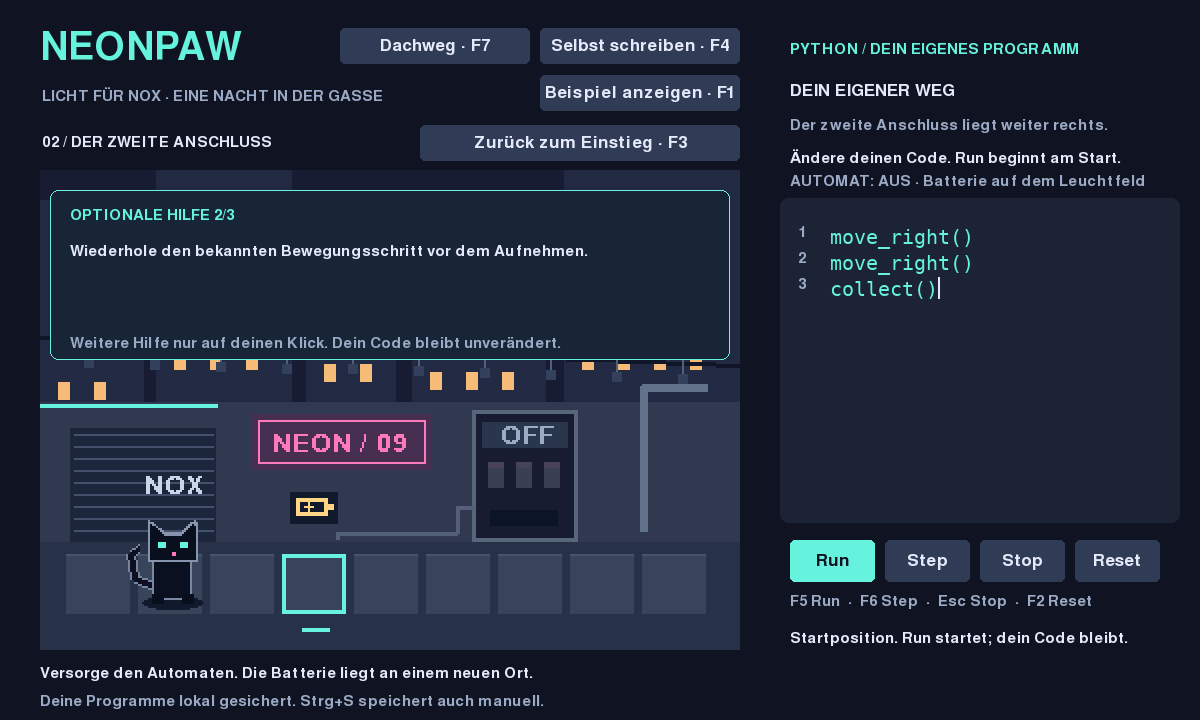
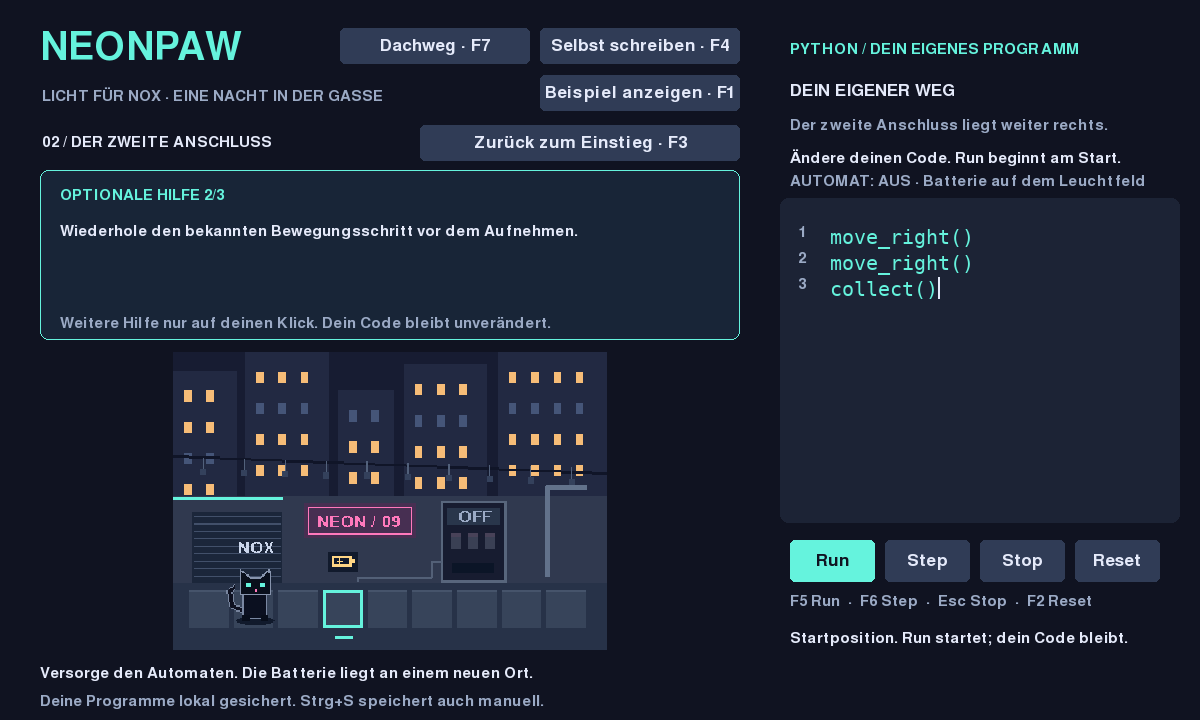
fix: keep the whole world visible beside optional guidance

Changed region(s): [[0.0308, 0.4278, 0.6167, 0.9167], [0.0308, 0.2444, 0.4933, 0.3667]]

diff --git a/neonpaw/ui/app.py b/neonpaw/ui/app.py
@@ -568,29 +568,46 @@ class App:
             scene.blit(self.sign_font.render('mrr', False, '#ffcf8a'), (cx - 11, 155))
         if not self.runner.world.moves:
             scene.blit(self.sign_font.render('NOX', False, '#cad5ea'), (cx - 13, 151))
-        self.canvas.blit(pygame.transform.scale(scene, (700, 480)), (40, 170))
+        viewport = self.world_display_rect()
+        self.canvas.blit(pygame.transform.scale(scene, viewport.size), viewport.topleft)
+
+    def hint_lines(self):
+        if not self.hint_level:
+            return ()
+        hints = (ROOF_LOOP_HINTS if self.roof_repetition_seen else ROOF_WALK_HINTS) if self.roof_active else HINTS[self.scenario]
+        if self.roof_active and self.roof_transfer_active:
+            hints = ROOF_TRANSFER_HINTS
+        if self.pair_active:
+            hints = PAIR_HINTS
+        return hints[self.hint_level - 1]
+
+    def hint_panel_rect(self):
+        return pygame.Rect(40, 170, 700, max(170, 70 + len(self.hint_lines()) * 28))
+
+    def world_display_rect(self):
+        if not self.hint_level:
+            return pygame.Rect(40, 170, 700, 480)
+        top = self.hint_panel_rect().bottom + 12
+        height = 650 - top
+        width = int(height * 350 / 240)
+        return pygame.Rect(40 + (700 - width) // 2, top, width, height)
 
     def draw_hint(self):
         if self.hint_level:
-            hints = (ROOF_LOOP_HINTS if self.roof_repetition_seen else ROOF_WALK_HINTS) if self.roof_active else HINTS[self.scenario]
-            if self.roof_active and self.roof_transfer_active:
-                hints = ROOF_TRANSFER_HINTS
-            if self.pair_active:
-                hints = PAIR_HINTS
-            lines = hints[self.hint_level - 1]
-            panel_height = max(170, 70 + len(lines) * 28)
-            pygame.draw.rect(self.canvas, '#182537', (50, 190, 680, panel_height), border_radius=8)
-            pygame.draw.rect(self.canvas, CYAN, (50, 190, 680, panel_height), 1, border_radius=8)
+            lines = self.hint_lines()
+            panel = self.hint_panel_rect()
+            pygame.draw.rect(self.canvas, '#182537', panel, border_radius=8)
+            pygame.draw.rect(self.canvas, CYAN, panel, 1, border_radius=8)
             heading = f'OPTIONALE HILFE {self.hint_level}/3'
             if self.hint_level == 3:
                 heading += ' · CODEBEISPIEL (UNTERSTÜTZT)'
-            self.text(heading, (70, 208), CYAN, self.small)
+            self.text(heading, (60, 188), CYAN, self.small)
             for index, line in enumerate(lines):
-                self.text(line, (70, 244 + index * 28), INK,
+                self.text(line, (60, 224 + index * 28), INK,
                           self.mono if self.hint_level == 3 else self.small)
             if self.hint_level < 3:
                 self.text('Weitere Hilfe nur auf deinen Klick. Dein Code bleibt unverändert.',
-                          (70, 190 + panel_height - 24), MUTED, self.small)
+                          (60, panel.bottom - 24), MUTED, self.small)
 
     def draw(self):
         self.canvas.fill(BG)

diff --git a/tests/test_hint_layout.py b/tests/test_hint_layout.py
@@ -1,0 +1,35 @@
+import os
+os.environ.setdefault('SDL_VIDEODRIVER','dummy')
+os.environ.setdefault('SDL_AUDIODRIVER','dummy')
+import pygame
+import pytest
+from neonpaw.ui.app import App
+from tests.test_recall import click
+
+@pytest.mark.parametrize('size',[(1200,720),(960,600),(1600,1000)])
+@pytest.mark.parametrize('stage',[1,2,3])
+def test_help_and_complete_world_are_separate_with_resize(size,stage):
+    pygame.init()
+    app=App()
+    app.screen=pygame.display.set_mode(size,pygame.RESIZABLE)
+    app.roof_active=True; app.recall_available=True
+    app.hint_level=stage
+    app.draw()
+    world=app.world_display_rect()
+    panel=app.hint_panel_rect()
+    assert not world.colliderect(panel)
+    assert pygame.Rect(40,170,700,480).contains(world)
+    assert world.width >= 320 and world.height >= 220
+    assert abs(world.width/world.height-350/240) < .02
+    assert not panel.colliderect(pygame.Rect(780,198,400,325))
+    assert all(not panel.colliderect(r) for r in app.visible_buttons().values())
+    # Real resized mouse click: close third hint; focus and text remain usable.
+    app.hint_level=3
+    r=app.buttons['Hilfe']
+    app.handle(pygame.event.Event(pygame.MOUSEBUTTONDOWN,button=1,
+        pos=(r.centerx*size[0]/1200,r.centery*size[1]/720)))
+    assert app.hint_level==0 and app.focus
+    assert app.world_display_rect()==pygame.Rect(40,170,700,480)
+    app.handle(pygame.event.Event(pygame.TEXTINPUT,text='#'))
+    assert app.source.endswith('#')
+    pygame.quit()

diff --git a/CURRENT.md b/CURRENT.md
@@ -1,52 +1,40 @@
-# CURRENT — 2026-11-09 — Zwei Laternen und klare Navigation
+# CURRENT — 2026-11-09 — Undo/Redo und beobachtbare Hilfen
 
-Projektziel: Cyberpunk-Python-Lernspiel, ein Integrator, keine neue Engine.
-Branch g0/first-cat-action. Ausgangspunkt f5beee9629a614e0df68878ee85b1141d76a7456.
-Extern bestätigter spielbarer Checkpoint: e880e51c075c7b99bfe7f42b171412030d873b37.
-Folgender Abschlusscommit ergänzt Navigationskorrektur und diese Übergabe; SHA mit git log -1 prüfen.
+Ziel: kleines Cyberpunk-Python-Lernspiel. Ein Integrator, keine neue Engine.
+Branch g0/first-cat-action. Ausgangspunkt 7818cedda43270c86fce959984c1f22753a6e0ea.
+Extern bestätigter Undo-Checkpoint ddcb0e2b2047a4ba5bc9c935a076129b714644c6.
+Folgender Abschlusscommit enthält Hilfelayout und Übergabe; SHA mit git log -1 prüfen.
 
-## Fertig / geprüft
-- Einstieg, Batterie/Automat, Transfer, Abruf ohne Vorlage, Dachweg und Dachtransfer.
-- Zwei Laternen nach Dachtransfer mit F9: leerer separater Editor; Ziele 4 und 7,
-  Teilerfolg 1/2 sichtbar, erst 2/2 gewinnt. Zwei gleich lange Strecken erlauben
-  wiederholte Aktionsgruppen, einzelne Befehle oder zwei Schleifen. Keine neue Syntax.
-- Fünf dauerhaft getrennte Entwürfe, Schema 4; Migration von Version 1–3 getestet.
-  Geladener Text startet nie automatisch. Run nach Ende/Stop beginnt frisch,
-  Step→Run setzt fort; Reset löscht keine Programme.
-- 148 Tests grün; evidence/navigation-green.txt. RED: Weltlogik 6, UI/Migration 5,
-  Hinweisregression 1, Navigation 2. Vollständiger SDL-Smoke (navigation-smoke.txt)
-  umfasst alle Aufgaben, falsche Pläne, Stop/Reset, Teilerfolg, Erfolg und Neustart.
-- Bestehende AST- und Ressourcenlimits unverändert, Negativtests enthalten.
-- Navigationsfehler korrigiert: ein sichtbarer Rückweg im Paarabschnitt, freier Titel;
-  unsichtbare Buttons können keine Klicks abfangen. Anzeige/Klick verwenden dieselbe Auswahl.
+## Fertig
+Bestehende Aufgaben bis Zwei-Laternen-Abschnitt unverändert spielbar. Sichere
+begrenzte AST-Teilmenge, fünf gespeicherte Entwürfe, Speicherformat 4 mit Migration 1–3.
+- Undo Strg+Z, Redo Strg+Y/Strg+Shift+Z: fünf getrennte Sitzungshistorien, maximal
+  32 Zustände je Stack, maximal 4096 Zeichen je Text. Cursor und Auswahl werden
+  restauriert; neue Änderung verwirft Redo. Abgewiesene/unveränderte Eingaben oder
+  leere History sind No-ops. Erfolgreiches Undo stoppt laufende Ausführung.
+- Autosave speichert den wiederhergestellten Text. Neustart erhält Texte, nicht
+  History; kein Speicherformatwechsel. Einstieg/Transfer teilen wie zuvor einen
+  Entwurf und damit eine History; die vier anderen Entwürfe sind unabhängig.
+- Hilfe überdeckt die Welt nicht mehr: Hinweise oben links, vollständige Welt
+  proportional darunter. Codefeld/Buttons unverändert. Schließen stellt große
+  Weltansicht wieder her. Welt ist während Hilfe kleiner; menschliche Lesbarkeit offen.
 
-## Qualitätsprüfung: drei größte konkrete Schwächen
-1. BEHOBEN: überdeckter Titel und redundante Rückwege; zuvor sogar unsichtbar klickbare
-   Controls. Sichtprüfung und zwei reproduzierte RED-Tests, danach GREEN/SDL.
-2. OFFEN: kein Undo. Strg+A und versehentliche Texteingabe ersetzen den Entwurf sofort;
-   Autosave ist keine intuitive Rücknahme. Nächster kleiner Produktbatch.
-3. OFFEN: Hilfepanel verdeckt einen Teil der Welt, statt Beobachtung daneben zu lassen.
-   Sichtbar im Screenshot; menschliche Frustration daraus ist noch nicht nachgewiesen.
-Eigener Fehler: breiter Textersatz verschachtelte alte Hinweislisten versehentlich;
-SDL fand den Absturz, korrigiert und durch Rendering aller Hilfestufen abgesichert.
-Menschliches Verständnis/Spielspaß, nativer Windows-/DPI-Test und externer Security-Audit offen.
+## Nachweise
+Undo RED 12 failed/1 passed, GREEN 161; Hilfelayout RED 9, finale GREEN 170.
+Belege evidence/undo-*.txt und hint-layout-*.txt. Volle Regression inklusive
+Schleifenlimits, Speicherschäden, Szenariowechsel; SDL-Smoke mit echten Events,
+Undo/Redo, Wechsel, Speichern, Neustart, Run/Stop/Reset und beiden Laternen.
+Layouttests 960×600, 1200×720, 1600×1000; Mausklick-Skalierung/Fokus geprüft.
+Screenshot der Hilfe visuell geprüft. Kein menschlicher Lern-/Spaßnachweis,
+kein nativer Windows-/DPI-Test oder unabhängiger Security-Audit.
 
-## Sicherung / Wiederaufnahme
-Unverändertes Recovery-Archiv: /workspace/Catworld-recovery-2026-11-09.tar.gz
-(3078 Dateien per SHA-256 geprüft), weitere versionierte Bundles unter /workspace.
-Keine bewusst ungesicherte WIP-Arbeit; tatsächlicher git status gilt zuerst.
-Nur GitHub-Test-CI, kein kontinuierlicher Codex-Scheduler. Keine anderen Projekte angefasst.
+## Nächste Priorität / Wiederaufnahme
+Genau eine nächste Produktaufgabe: horizontales Nachführen des Codefelds, damit
+Cursor und bearbeiteter Text bei langen Zeilen sichtbar bleiben. Reproduzierbar:
+Renderer clippt auf 380 Pixel, Cursor-x wächst mit Zeilenlänge ohne horizontalen Offset.
 Erster Befehl: `cd /workspace/Catworld && git status --short --branch && git log -5 --oneline`
-1. Arbeit/Backups prüfen und sichern, Fetch/Reviews/Remote vergleichen.
-2. NEXT_TASK.md: RED für versehentlichen Textersatz und Undo, dann minimal implementieren.
-3. Vollsuite + SDL-Smoke, Commit/Bundle/Push/Remote prüfen; bei Limit zuerst Checkpoint.
-
-## Undo-Batch — 2026-11-09
-Ausgangspunkt 7818ced sauber, keine Remote-Neuerungen. Undo/Redo implementiert:
-Strg+Z / Strg+Y / Strg+Shift+Z, je fünf Editoren getrennt, maximal 32 Zustände pro
-Stack, maximal 4096 Zeichen pro Zustand. Cursor/Auswahl wiederhergestellt; leere
-History und unveränderte/abgewiesene Eingaben ändern nichts. Undo stoppt Ausführung;
-Autosave speichert Text. Historie nur Sitzung, kein neues Speicherformat.
-RED 12 failed/1 passed, GREEN 161; SDL mit Ersatz/Undo/Redo, Editorwechsel, Speichern,
-Neustart und vollständigem Spielablauf grün (evidence/undo-*.txt).
-Nächster Schritt nach externer Sicherung: Hilfe ohne Überdeckung der Welt darstellen.
+1. Arbeit/Backups sichern, Remote/Reviews vergleichen. Undo nicht erneut entwickeln.
+2. NEXT_TASK.md: RED für langen Text und sichtbaren Cursor; minimal korrigieren.
+3. Volle Tests/SDL, Commit, Bundle verify, Push und Remote-SHA prüfen.
+Recovery-Archive unverändert erhalten; /workspace/Catworld-undo.bundle geprüft.
+Nur Test-CI, kein Entwicklungsscheduler. Tatsächlicher Git-Status gilt vor Dokumenten.

diff --git a/NEXT_TASK.md b/NEXT_TASK.md
@@ -1,6 +1,7 @@
-# Nächste Aufgabe: Hilfe ohne Weltüberdeckung
-Undo/Redo für alle fünf Editoren ist umgesetzt (161 Tests, SDL-Smoke).
-Nach Git-/Remote-Prüfung RED-Bildtest: Weltregion darf sich beim Öffnen der Hilfe
-nicht durch ein Overlay ändern. Kleinste Layoutkorrektur: eigener Hilfebereich,
-Welt/Code/Buttons weiter sichtbar, Klick-Koordinaten bei Resize prüfen.
-Vor dem nächsten Batch aktuellen Commit und Push verifizieren. Keine neue Bibliothek.
+# Nächste Aufgabe: Cursor bei langen Codezeilen sichtbar halten
+Undo/Redo und Hilfelayout sind abgeschlossen, 170 Tests und SDL-Smoke grün.
+Nach Git-/Remote-Abgleich einen RED-UI-Test für eine Zeile breiter als das Codefeld:
+Cursor am Zeilenende muss sichtbar und per Mausklick korrekt platzierbar bleiben.
+Minimalen horizontalen Offset ergänzen; Home/End, Undo/Redo, Auswahl, Fenstergröße
+und Szenariowechsel prüfen. Keine neue Editorbibliothek oder Python-Syntax.
+Danach vollständig testen und extern sichern. Menschliche Lesbarkeit separat prüfen.

diff --git a/PROGRESS_LOG.md b/PROGRESS_LOG.md
@@ -107,3 +107,10 @@ README und Sicherheits-/Speicherdokumentation aktualisiert. Keine Sprach-/Budget
 RED 12 failed/1 passed, danach 161 GREEN. Fünf getrennte begrenzte Historien,
 Textersatz/Löschen/Einrückung/mehrzeilige Eingabe/Cursor/Auswahl/Autosave getestet.
 SDL: echte Tastenereignisse, Undo/Redo, Editorwechsel, Neustart, Run/Stop/Reset PASS.
+
+## 2026-11-09 — Hilfe ohne Weltüberdeckung
+Undo-Checkpoint ddcb0e2 vor Layoutarbeit gepusht und Remote-SHA verifiziert;
+Bundle geprüft. Hilfelayout RED 9 (drei Hilfestufen × drei Fenstergrößen), GREEN 170.
+Welt proportional vollständig unter Hilfe; Code/Buttons bleiben fest. Resize-Klicks,
+Fokus und Rückkehr zur vollen Welt geprüft. Voller SDL-Smoke PASS, Screenshot geprüft.
+Nächste einzelne Priorität aus Codeanalyse: horizontales Nachführen langer Editorzeilen.

diff --git a/README.md b/README.md
@@ -53,6 +53,8 @@ die Simulation bleibt unabhängig von diesen Darstellungsdetails.
 - **Stop / Esc:** verwirft die laufende Ausführung, Position und Code bleiben.
 - **Reset / F2:** setzt das aktuelle Szenario und die Ausführung zurück; dein Code bleibt erhalten.
 - **Hilfe / F1:** optional Beobachtung → Denkhinweis → ausdrücklich angefordertes Codebeispiel.
+  Hinweise und vollständige Welt stehen gleichzeitig übereinander; beim Schließen
+  wird die Welt wieder groß. Codefeld und Buttons bleiben an ihren Positionen.
 - **Weiter / Freier Einstieg / F3:** wechselt zwischen Einstieg und Transfer; Code bleibt erhalten.
 - **Strg+Z:** Änderung rückgängig; **Strg+Y / Strg+Shift+Z:** wiederholen.
   Je Entwurf höchstens 32 Schritte innerhalb der Sitzung. Editorwechsel erhält die

diff --git a/LEARNINGS.md b/LEARNINGS.md
@@ -69,3 +69,9 @@ Nur tatsächliche Textänderungen erzeugen History; abgewiesene Eingaben und lee
 Undo stoppen kein laufendes Programm. Erfolgreiches Undo stoppt es. Beide Stacks
 sind auf 32 begrenzt, Texte auf 4096 Zeichen. Autosave ersetzt keine Undo-Historie;
 der wiederhergestellte Text wird gespeichert, History bleibt bewusst sitzungslokal.
+
+## 2026-11-09 — Hinweise und Ursache/Wirkung gleichzeitig zeigen
+Ein Overlay versteckte die Welt gerade beim Nachdenken über sie. Zwei getrennte
+Bereiche in derselben linken Spalte lösen das ohne neues Fenster oder Bibliothek.
+Welt wird proportional kleiner, Text und Controls bleiben gleich groß. Geometrie,
+Resize-Hit-Test und Fokus sind testbar; menschliche Lesbarkeit ist damit nicht bewiesen.
